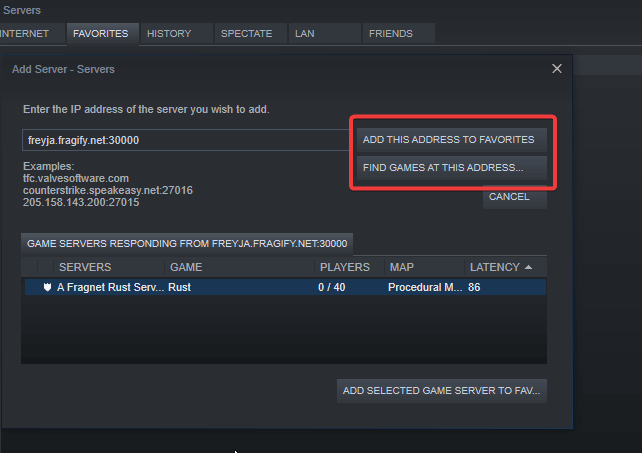
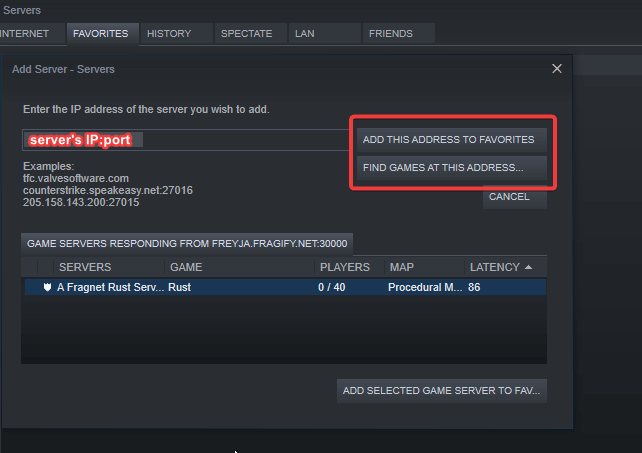
Added Satisfactory articles and adjusted some image for example of Rust

Changed region(s): [[0.0312, 0.2781, 0.2181, 0.34]]

diff --git a/sidebars.js b/sidebars.js
@@ -321,6 +321,23 @@ const sidebars = {
             'games/rust/pair-server-with-rust-plus-app',
             'games/rust/rust-wipe'
           ]
+        },
+        {
+          type: 'category',
+          label: 'Satisfactory',
+          link: {
+            type: 'generated-index',
+            slug: '/games/satisfactory',
+          },
+          items: [
+            'games/satisfactory/access-in-game-console', 
+            'games/satisfactory/change-name-of-server',
+            'games/satisfactory/change-starting-area',
+            'games/satisfactory/claim-and-join-satisfactory-server',
+            'games/satisfactory/set-admin-password',
+            'games/satisfactory/switch-to-experimental',	
+            'games/satisfactory/this-server-offline-solution'
+          ]
         }
       ]
     },

diff --git a/docs/games/satisfactory/change-starting-area.md b/docs/games/satisfactory/change-starting-area.md
@@ -1,0 +1,48 @@
+---
+title: Changing starting area on Satisfactory server
+keywords: ['satisfactory server start area', 'satisfactory server']
+---
+
+# Changing starting area on Satisfactory server
+
+When the server has been added to the server manager, you can choose your starting area in the **Create Game** tab.
+
+After the session creation, the starting area can be changed by moving your HUB to that designated area.
+
+Or by resetting your progress, starting the session again and choosing the wanted starting area.
+
+The four starting areas are:
+
+**Grass Fields**
+
+*Ideal for first-time pioneers*
+
+![Grass Fields](images/grassy-fields.png)
+
+> The first viable building location FICSIT had found, standing out because of its open and relatively flat fields. Considering the distances between mining locations, building outposts and/or large transportation lines may be necessary eventually.
+
+**Rocky Desert**
+
+*Suitable for first-time pioneers*
+
+![Rocky Desert](images/rocky-desert.png)
+
+> The textbook example of a FICSIT-approved building location, with balanced resources, space, and distances. Additionally, it is very close to the sea, making water an easy commodity.
+
+**Northern Forest**
+
+*Good for more experienced pioneers*
+
+![Northern Forest](images/northern-forest.png)
+
+> A lush building location with many height differences and a few open areas, challenging conventional building and planning methods. Despite these challenges, it caught our eye due to the richness of its resources.
+
+**Dune Desert**
+
+*Recommended for advanced pioneers*
+
+![Dune Desert](images/dune-desert.png)
+
+> Initially considered too risky, further investigation has convinced us that this area is viable for building with its large, open spaces and plentiful mining locations. Foliage and water locations are rare and contained, making initial power set-ups challenging.
+
+ 

diff --git a/docs/games/satisfactory/claim-and-join-satisfactory-server.md b/docs/games/satisfactory/claim-and-join-satisfactory-server.md
@@ -1,0 +1,35 @@
+---
+title: Claiming and joining your Satisfactory server
+keywords: ['satisfactory server claim', 'satisfactory server join']
+---
+
+
+Satisfactory server always require you to claim the server in-game before connecting to it when you attempt to do so first time. This article will explain how to claim your server as well as connect to it afterwards. 
+
+# How to claim and join your Satisfactory server
+
+1\. Login to the [Fragify panel](https://panel.fragify.net/auth/login) and select your Satisfactory server. 
+
+2\. You will need to copy hostname that can be found on the dashboard and in **Configure** option, you will need to copy query port.
+
+![Server Query Port](images/server-query.png)
+
+3\. Open your Satisfactory game and navigate to **Server Manager**. Click on the **Add Server** button and input hostname/port in their respective fields. Click on **Confirm**.
+
+![Server Manager](images/server-manager.png)
+
+4\. If the server was succesfully added, you will see a new window that will ask you to input the name for the server to be claimed. 
+
+![Claim Server](images/claim-window.png)
+
+5\. Set your **Admin Password** on the next window. 
+
+![Set Admin Password](images/set-admin-password.png)
+
+6\. Once the server is claimed, you will need to create game on it before joining it. You can session name to any name that you would like and choose area to your preferences. 
+
+![Create Game](images/create-game.png)
+
+7\. You can select **Status** tab and click on **Join Game** to connect to your Satisfactory server.
+
+![Join Game](images/join-game.png)

diff --git a/docs/games/satisfactory/set-admin-password.md b/docs/games/satisfactory/set-admin-password.md
@@ -1,0 +1,34 @@
+---
+title: Setting admin password for your Satisfactory server
+keywords: ['satisfactory server admin password', 'satisfactory server setup admin password']
+---
+
+# Setup Admin Password for your Satisfactory server
+
+Changing your admin password is very simple in Satisfactory.
+
+`*Do note you will need to have added your server and claimed it before being able to add an admin password. If this hasn't been done, please do follow the guides we have in store regarding adding the server and claiming it.`
+
+To change your admin password please follow these steps:
+
+1\. Go to your **Main Menu** and click on **Server Manager**.
+
+![Main Menu](images/main-menu.png)
+
+2\. Click on your server.
+
+![Server](images/server.png)
+
+3\. On the right side, various tabs should appear. Press the **Server Settings** tab. 
+
+![Server Settings](images/server-settings.png)
+
+4\. Afterwards, navigate to **Administration Password** and click on the **Change Password** field, and a smaller window should pop up. 
+
+![Change Administration Password](images/change-admin-password.png)
+
+5\. Type in any password you want and press **Confirm**.
+
+![Adminstration Password](images/admin-password.png)
+
+6\. Done! You have changed your **Administration Password** on your server. 

diff --git a/docs/games/satisfactory/access-in-game-console.md b/docs/games/satisfactory/access-in-game-console.md
@@ -1,0 +1,35 @@
+---
+title: Enabling in-game console of Satisfactory
+keywords: ['satisfactory console', 'satisfactory game console']
+---
+
+# Enabling in-game console of Satisfactory
+The in-game console can be accessed by pressing the **Tilde (`)** key.
+
+Pressing it once will open a small command line window at the bottom of the screen: 
+
+![Console](images/console.png)
+
+Pressing it twice will open a large window with a command line and logs located on the screen: 
+
+![Large Console](images/large-console.png)
+
+You can check the full list of Satisfactory commands here: https://satisfactory.fandom.com/wiki/Console
+
+If by any chance you are unable to turn on the console.
+You can turn it on with these steps:
+
+1\. Close your Satisfactory game.
+
+2\. Press **WINDOWS + R** to open the RUN window, and paste this line in there `%LOCALAPPDATA%\FactoryGame\Saved\Config\WindowsNoEditor`.
+
+3\. A window filled with ini files should popup. Find the file called **Input.ini**.
+
+4\. Add these 2 lines to the bottom of the ini file:
+```
+[/script/engine.inputsettings]
+ConsoleKey=P
+```
+The console key can be changed to any button you wish.
+
+Launch your game, use the button you have configured, and it should work.

diff --git a/docs/games/satisfactory/switch-to-experimental.md b/docs/games/satisfactory/switch-to-experimental.md
@@ -1,0 +1,28 @@
+---
+title: Switching to experimental version your Satisfactory server
+keywords: ['satisfactory server experimental', 'satisfactory server setup experimental']
+---
+
+
+# Switching to experimental version your Satisfactory server
+Firstly we’ll need to delete the server files for new ones to be created for the experimental version.
+
+**WARNING: This will delete all of your sessions**
+
+1\. Stop your server and navigate to your **File Manage** on the game panel then go to `config => Epic => FactoryGame => Saved => SaveGames => server`.
+
+![File Manager](../images/file-manager.png)
+
+If you wish to have a backup, simply go back one directory, tick the box near the server folder, navigate to the **...** alongside the bar, a small menu will appear and click on **Archive** as illustrated in the screenshot here.
+
+![Archive](images/archive.png)
+
+2\. Once ready, delete the contents of the **server** folder.
+
+3\. Go to your Fragify game panel and navigate to **Configure** and find **Branch Name** under `Advanced Settings`.
+
+5\. Choose **experimental** option and start your server.
+
+![Branch Name](images/branch-name.png)
+
+6\. Done! Your server is now running on experimental mode.

diff --git a/docs/games/satisfactory/set-password.md b/docs/games/satisfactory/set-password.md
@@ -1,0 +1,34 @@
+---
+title: Setting password for your Satisfactory server
+keywords: ['satisfactory server password', 'satisfactory server setup password']
+---
+
+# Setup of server password
+Changing your password is very simple in Satisfactory due to their simple server options for people who have claimed their servers.
+
+`*Do note you will need to have added your server and claimed it before being able to add a password.
+If this hasn't been done, please do follow the guides we have in store regarding adding the server and claiming it.`
+
+To change your server password, follow these steps:
+
+1\. Go to **Main Menu** and click on **Server Manager**.
+
+![Main Menu](images/main-menu.png)
+
+2\. Click on your server.
+
+![Server](images/server.png)
+
+3\. On the right side, various tabs should appear. Click on the **Server Settings** tab. 
+
+![Server Settings](images/server-settings.png)
+
+4\. Afterwards, click on the **Change Password** field, and a smaller window should pop up. 
+
+![Change Password](images/change-password.png)
+
+5\. Type in any password you want and press **Confirm**.
+
+![Password](images/password.png)
+
+6\. Done! You have set a password to your server. 

diff --git a/docs/games/satisfactory/change-name-of-server.md b/docs/games/satisfactory/change-name-of-server.md
@@ -1,0 +1,31 @@
+---
+title: Changing server name of your Satisfactory server
+keywords: ['satisfactory server name', 'satisfactory server']
+---
+
+# Changing server name of your Satisfactory server
+
+Changing your server name is very simple in Satisfactory.
+
+`*Do note you will need to have added your server and claimed it before being able to change the name.
+If this hasn't been done, please do follow the guides we have in store regarding adding the server and claiming it.`
+
+To change your server name, follow these simple steps:
+
+1\. Go to your **Main Menu** and click on **Server Manager**.
+
+![Main Menu](images/main-menu.png)
+
+2\. Click on your server.
+
+![Server](images/server.png)
+
+3\. On the right side, various tabs should appear. Press the **Server Settings** tab. 
+
+![Server Settings](images/server-settings.png)
+
+4\. Once there, click on the **Server Name** field and rename your server.
+
+![Server Name](images/server-name.png)
+
+5\. Done! You have renamed your server.

diff --git a/docs/games/satisfactory/this-server-offline-solution.md b/docs/games/satisfactory/this-server-offline-solution.md
@@ -1,0 +1,17 @@
+---
+title: Troubleshooting  "This server appears to be offline" message on your Satisfactory server
+keywords: ['satisfactory server error', 'satisfactory server offline']
+---
+
+
+# "This server appears to be offline" message and how to solve it
+
+![This server appears to be offline](images/offline-server.png)
+
+Due to Satisfactory being early access, the developers are still ironing all the kinks of the game,
+
+Staying on the main menu while your **Server Manager** is selected will have a chance to give you a `"This server appears to be offline"` even though the server is running on your game panel. 
+
+To make the server “online” in your game all that has to be done is to restart your game and the server will appear as running again.
+
+![Online Server](images/online-server.png)
